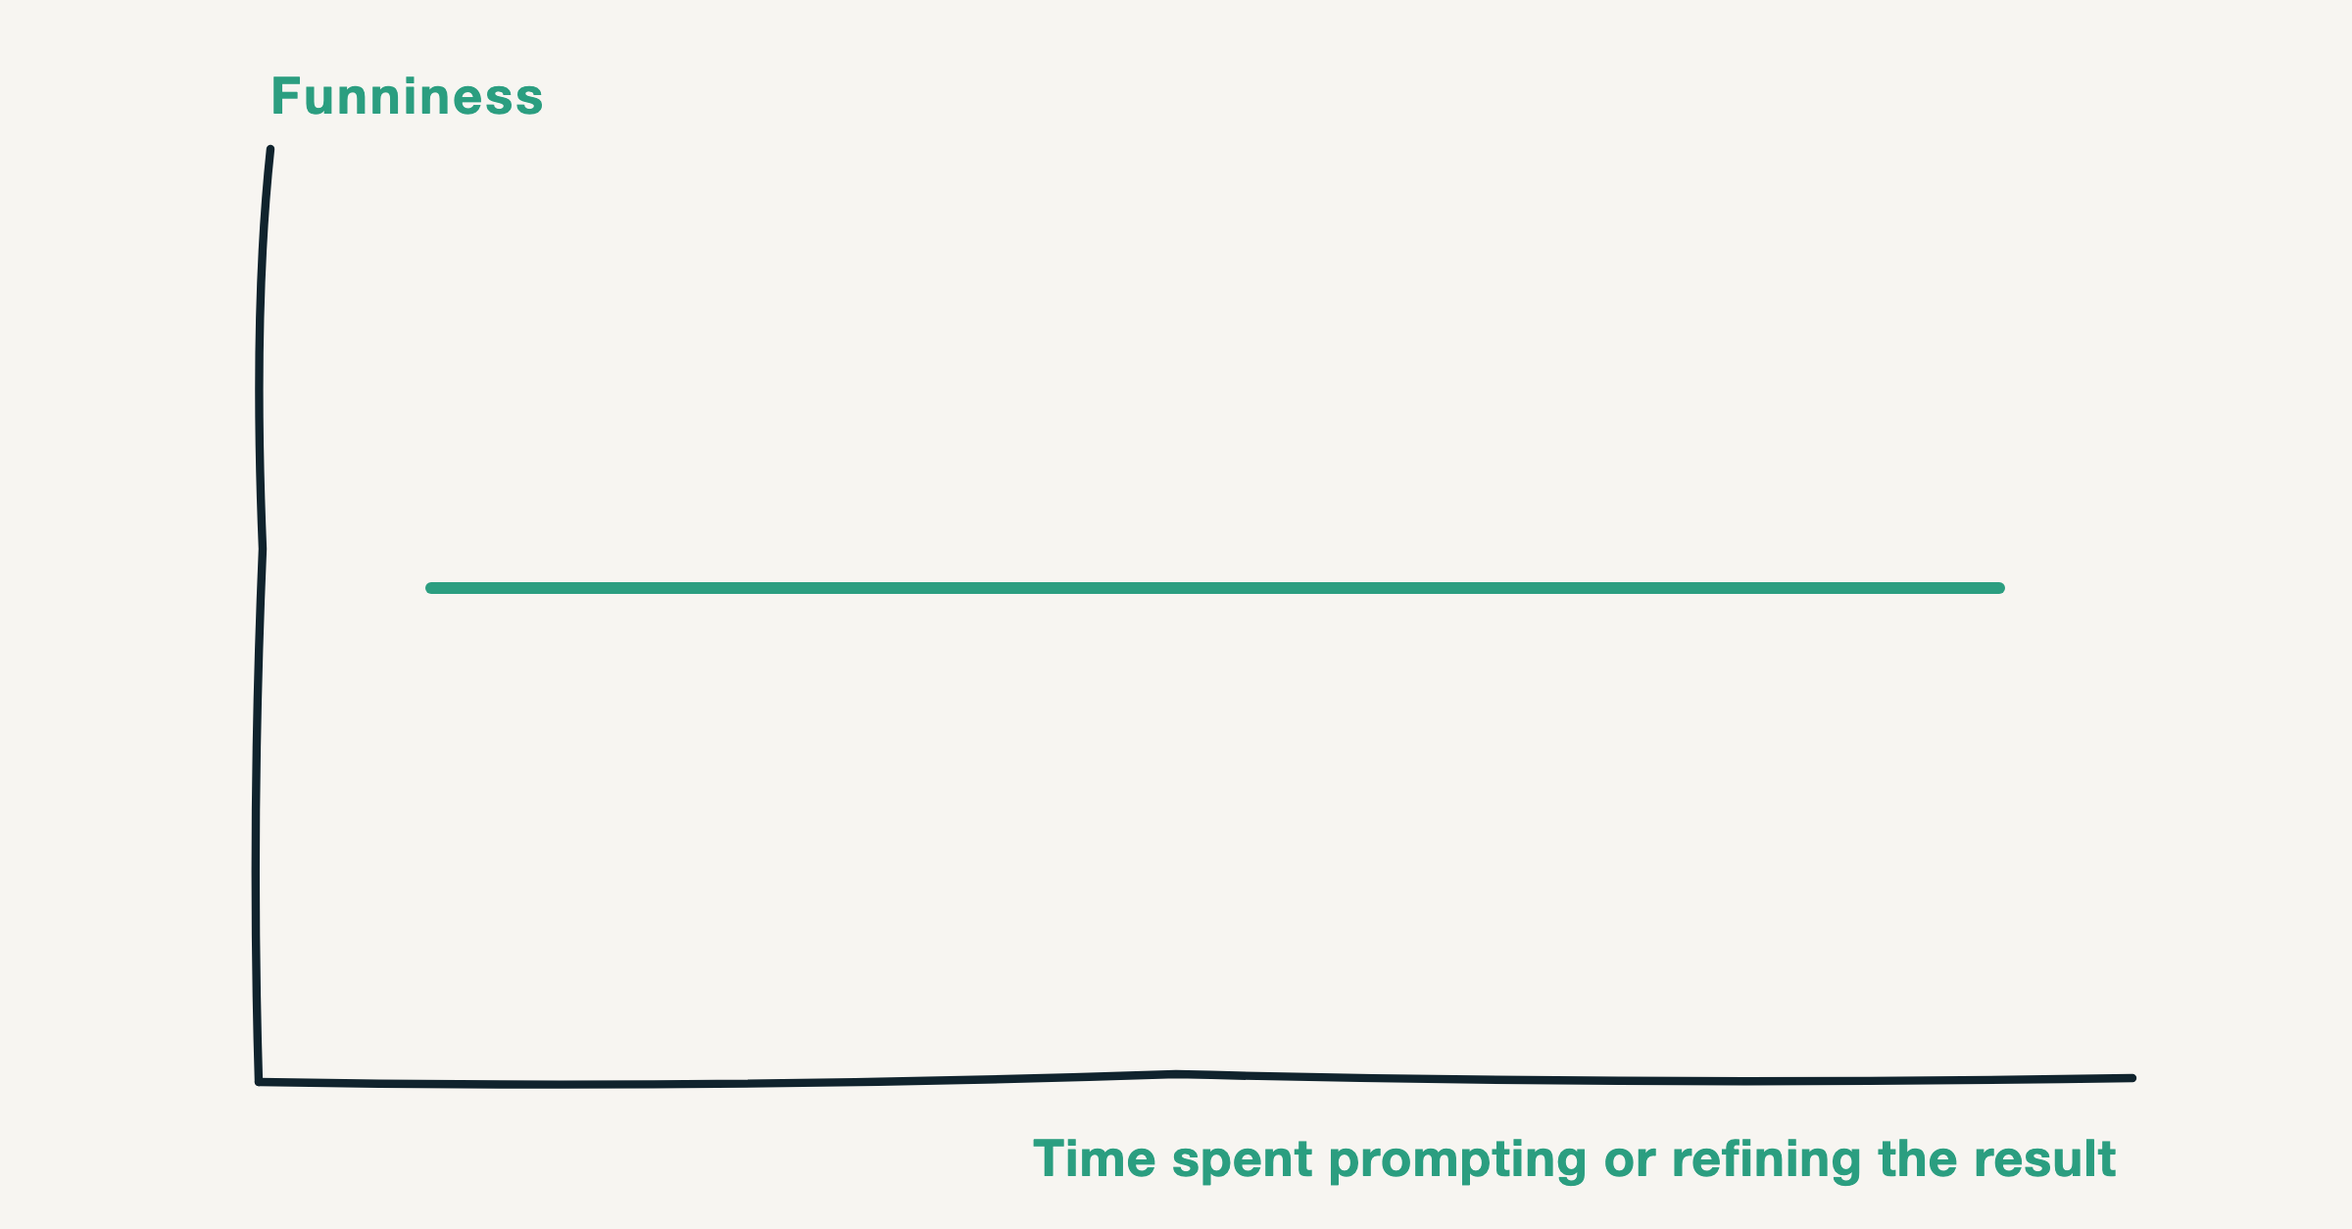
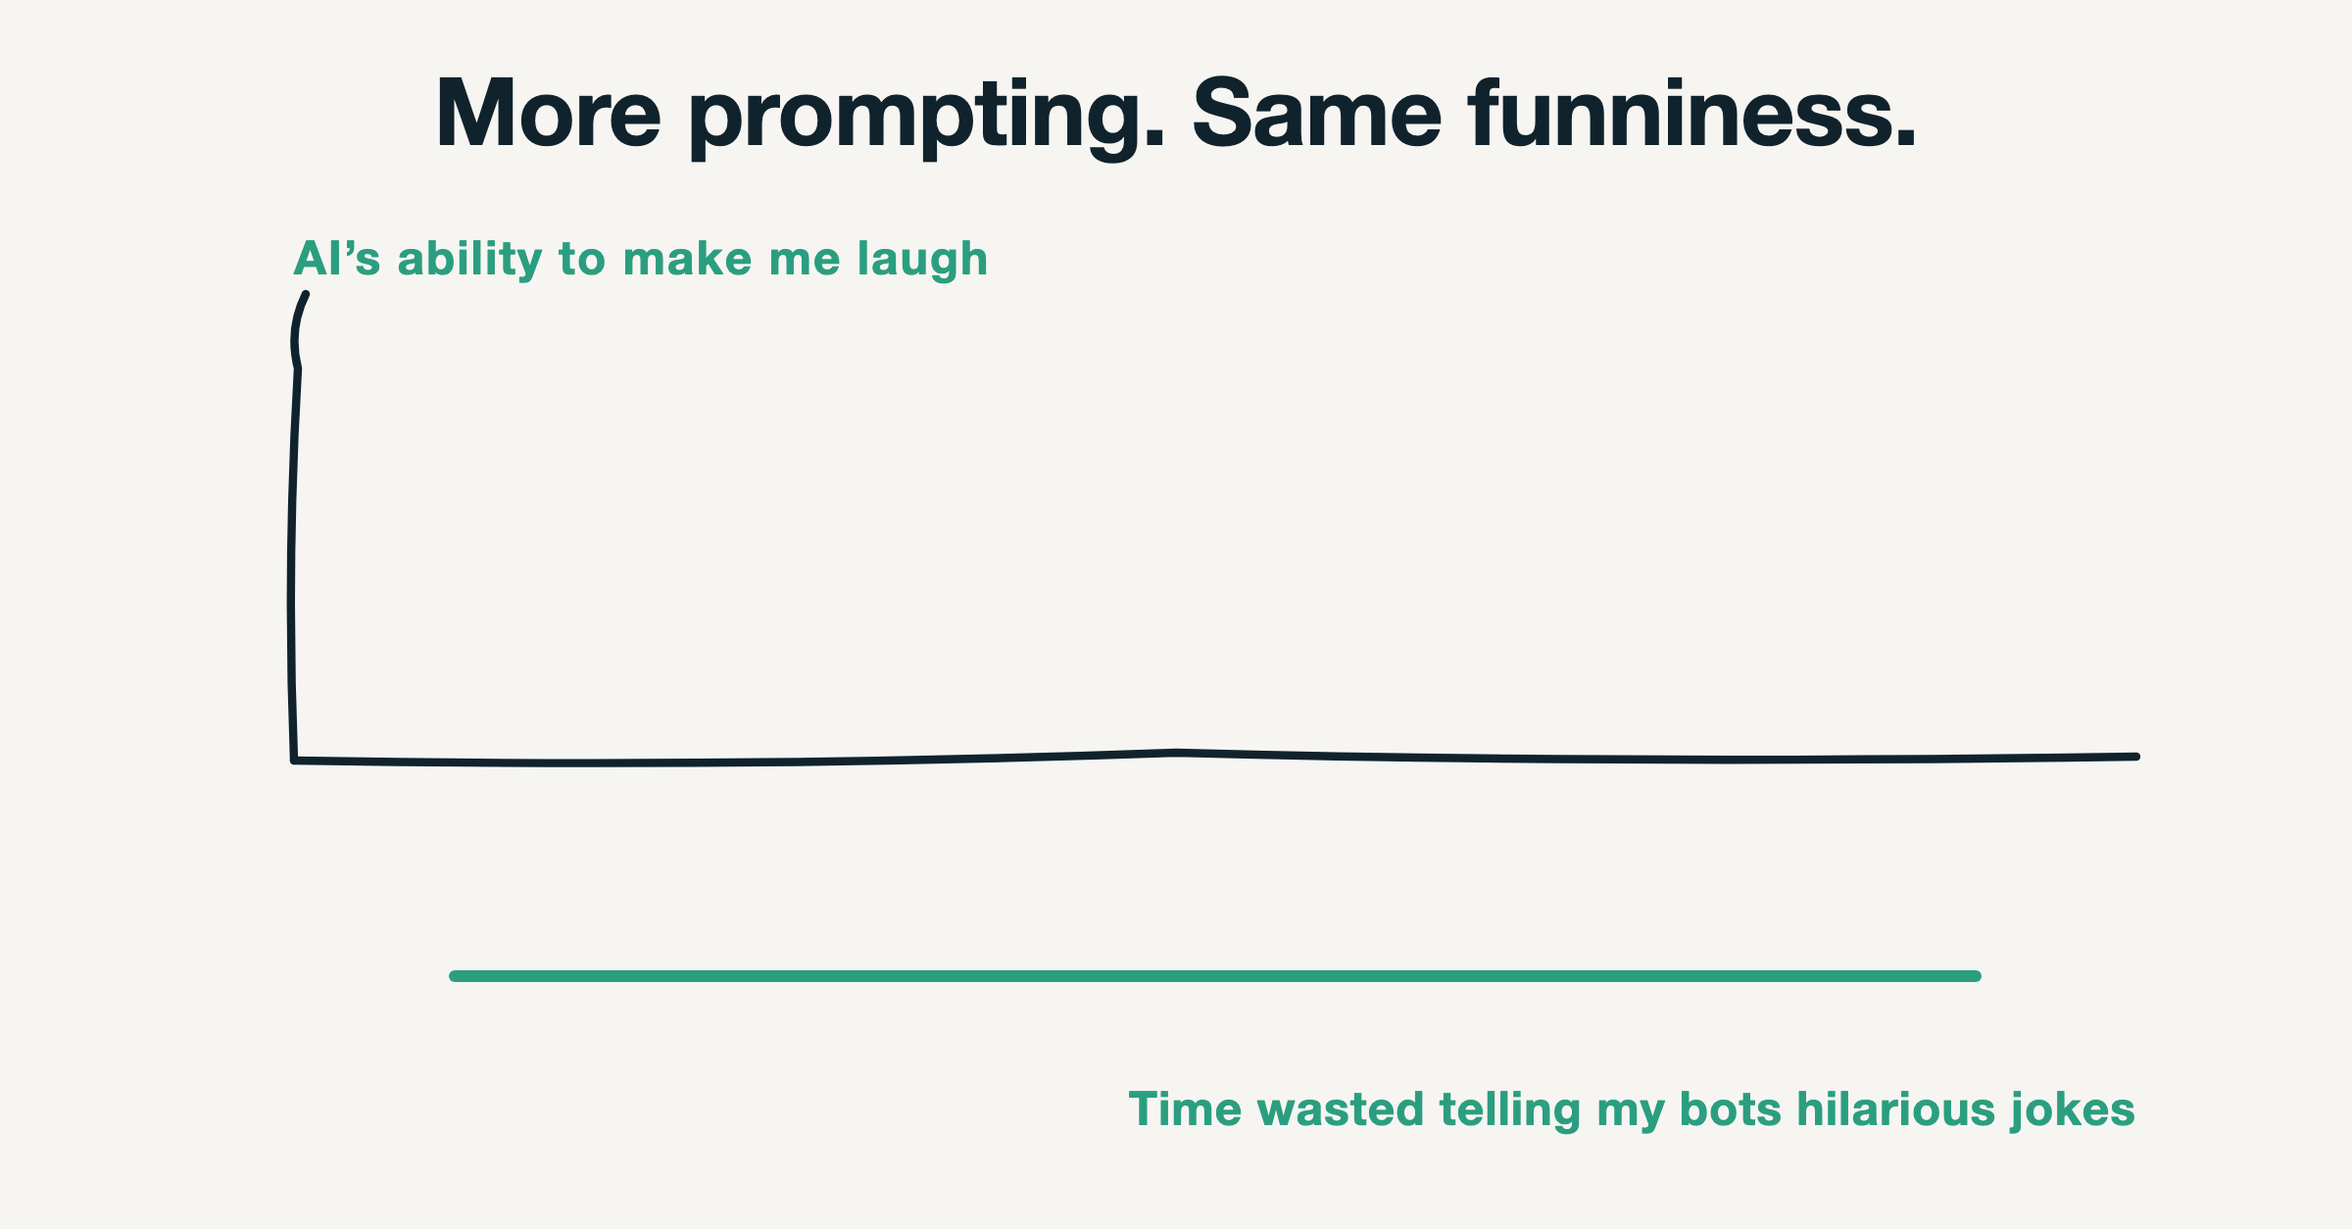
Social: revise AI-humor chart (header + flat line below axis), add post copy options, re-export PNG
- Chart: add header 'More prompting. Same funniness.' above the chart;
  y-axis 'AI's ability to make me laugh', x-axis 'Time wasted telling my
  bots hilarious jokes'; flat straight line now sits BELOW the x-axis in
  negative territory (was above). Marker-sketch axes kept; line is plain
  straight, no annotations or numbers.
- Re-export PNG at 2400x1254 (LinkedIn 1200x627 at 2x), overwriting
  jane-ai-humor-chart.png; copied to OneDrive Social Media master.
- Page: keep chart + Download PNG on top; add 'Post copy options'
  section with three options (verbatim post text preserving line breaks,
  styled one-line insight, amber 'Check with Jane' note on Option 1 only
  since it names Anthropic).
- Add collapsed 'Header and axis alternates' (3 headers + 2 y + 2 x
  variants, best pick marked) and 'What we cut' sections. Notes-for-Jane
  block and best-pick rationale omitted per brief.
- Update page title to 'Chart and post copy for Jane's LinkedIn post
  (draft, 26 Oct 2026)'; keep 'Personal profile - Draft, not posted' tag.
- OneDrive master IDEAS-2026-10-26-jane-ai-humor.html made byte-identical
  to the page.
- IMP card note updated; title stays 'Jane personal LinkedIn - AI humor
  chart'.
- Work board row social-ai-humor-post: stage 'Chart revised + copy,
  Jane to pick', model 'GLM (GPT rate-limited, Jane approved)', waiting
  on Jane: pick header/axes and a post option.

Wording is GLM-drafted (GPT rate-limited) and Jane-approved; used verbatim.

diff --git a/LUCI Systems Design System/ui_kits/review/content-marketing/jane-ai-humor-post-options-review.html b/LUCI Systems Design System/ui_kits/review/content-marketing/jane-ai-humor-post-options-review.html
@@ -3,7 +3,7 @@
 <head>
 <meta charset="utf-8">
 <meta name="viewport" content="width=device-width, initial-scale=1">
-<title>Chart for Jane's LinkedIn post (draft, 26 Oct 2026)</title>
+<title>Chart and post copy for Jane's LinkedIn post (draft, 26 Oct 2026)</title>
 <style>
   :root {
     --navy: #0A161C;
@@ -14,6 +14,9 @@
     --line: #cfcbc4;
     --mint: #68E3BE;
     --ink-soft: #5c5852;
+    --amber: #b8841a;
+    --amber-bg: #fbf3e0;
+    --amber-border: #e3c878;
   }
   * { box-sizing: border-box; }
   body {
@@ -44,6 +47,11 @@
     font: 700 1.7rem/1.2 "Helvetica Neue", Arial, sans-serif;
     color: var(--navy); margin: 0 0 .8rem;
     letter-spacing: -.01em;
+  }
+  h2 {
+    font: 700 1.25rem/1.3 "Helvetica Neue", Arial, sans-serif;
+    color: var(--navy); margin: 2.6rem 0 1rem;
+    letter-spacing: -.005em;
   }
   .draft-tag {
     display: inline-block;
@@ -90,6 +98,148 @@
     font-family: "Helvetica Neue", Arial, sans-serif;
     margin-top: 2rem;
   }
+
+  /* Post copy options */
+  .options { margin: 0 0 1rem; }
+  .option {
+    border: 1px solid var(--line);
+    border-radius: 10px;
+    background: var(--paper);
+    padding: 1.4rem 1.5rem 1.3rem;
+    margin: 0 0 1.2rem;
+  }
+  .option__head {
+    font: 700 12px/1 "Helvetica Neue", Arial, sans-serif;
+    letter-spacing: .1em; text-transform: uppercase;
+    color: var(--kicker);
+    margin: 0 0 .8rem;
+  }
+  .option__post {
+    font: 18px/1.6 "Georgia", "Times New Roman", serif;
+    color: var(--ink);
+    white-space: pre-wrap;
+    margin: 0 0 1rem;
+  }
+  .insight {
+    border-left: 4px solid var(--kicker);
+    background: #eef7f3;
+    padding: .7rem 1rem;
+    margin: 0 0 .8rem;
+    font: 600 14px/1.5 "Helvetica Neue", Arial, sans-serif;
+    color: var(--ink);
+  }
+  .insight strong {
+    font: 700 11px/1 "Helvetica Neue", Arial, sans-serif;
+    letter-spacing: .08em; text-transform: uppercase;
+    color: var(--kicker);
+    display: block;
+    margin-bottom: .3rem;
+  }
+  .check-jane {
+    border: 1px solid var(--amber-border);
+    background: var(--amber-bg);
+    color: var(--amber);
+    border-radius: 6px;
+    padding: .6rem .9rem;
+    font: 700 12px/1.5 "Helvetica Neue", Arial, sans-serif;
+    letter-spacing: .02em;
+  }
+  .check-jane strong {
+    font-weight: 700;
+    text-transform: uppercase;
+    letter-spacing: .08em;
+    margin-right: .4rem;
+  }
+
+  /* Collapsed sections */
+  details {
+    border: 1px solid var(--line);
+    border-radius: 10px;
+    background: var(--paper);
+    margin: 0 0 1.2rem;
+  }
+  summary {
+    cursor: pointer;
+    padding: .9rem 1.2rem;
+    font: 700 14px/1.3 "Helvetica Neue", Arial, sans-serif;
+    color: var(--navy);
+    list-style: none;
+  }
+  summary::-webkit-details-marker { display: none; }
+  summary::before {
+    content: "+";
+    display: inline-block;
+    width: 1.1rem;
+    color: var(--kicker);
+    font-weight: 700;
+    margin-right: .4rem;
+  }
+  details[open] summary::before { content: "\2212"; }
+  .details-body {
+    padding: 0 1.2rem 1.2rem;
+    border-top: 1px solid var(--line);
+    margin-top: -.1rem;
+    padding-top: 1rem;
+  }
+  .alt-group { margin: 0 0 1rem; }
+  .alt-group h3 {
+    font: 700 11px/1 "Helvetica Neue", Arial, sans-serif;
+    letter-spacing: .1em; text-transform: uppercase;
+    color: var(--kicker);
+    margin: 0 0 .5rem;
+  }
+  .alt-list {
+    list-style: none;
+    padding: 0;
+    margin: 0;
+    font: 17px/1.55 "Georgia", "Times New Roman", serif;
+    color: var(--ink);
+  }
+  .alt-list li {
+    padding: .35rem 0 .35rem 1.6rem;
+    position: relative;
+  }
+  .alt-list li::before {
+    content: "";
+    position: absolute;
+    left: 0;
+    top: .85em;
+    width: .7rem;
+    height: 2px;
+    background: var(--kicker);
+  }
+  .alt-list li.best {
+    font-weight: 700;
+    color: var(--navy);
+  }
+  .alt-list li.best::after {
+    content: " \2014 BEST PICK";
+    font: 700 10px/1 "Helvetica Neue", Arial, sans-serif;
+    letter-spacing: .1em;
+    color: var(--kicker);
+  }
+  .cut-list {
+    list-style: none;
+    padding: 0;
+    margin: 0;
+    font: 17px/1.6 "Georgia", "Times New Roman", serif;
+    color: var(--ink-soft);
+  }
+  .cut-list li {
+    padding: .4rem 0 .4rem 1.4rem;
+    position: relative;
+    border-bottom: 1px solid var(--line);
+  }
+  .cut-list li:last-child { border-bottom: none; }
+  .cut-list li::before {
+    content: "\2715";
+    position: absolute;
+    left: 0;
+    top: .4rem;
+    color: #b5503a;
+    font-size: 13px;
+    font-weight: 700;
+  }
 </style>
 </head>
 <body>
@@ -98,34 +248,113 @@
 </nav>
 <main>
   <p class="kicker">Draft for Jane &middot; 26 Oct 2026</p>
-  <h1>Chart for Jane&rsquo;s LinkedIn post (draft, 26 Oct 2026)</h1>
+  <h1>Chart and post copy for Jane&rsquo;s LinkedIn post (draft, 26 Oct 2026)</h1>
   <span class="draft-tag">Personal profile &middot; Draft, not posted</span>
 
-  <section class="chart" id="chart" aria-label="Hand-drawn sketch chart: funniness stays flat across time spent prompting or refining the result.">
+  <section class="chart" id="chart" aria-label="Hand-drawn sketch chart: more prompting, same funniness &mdash; a flat line stays below the x-axis across time wasted telling my bots hilarious jokes.">
     <div class="chart__body">
-      <svg class="chart__svg" viewBox="0 0 1200 627" role="img" aria-label="Hand-drawn sketch: a flat straight line for funniness across time spent prompting or refining the result, with axis labels Funniness and Time spent prompting or refining the result.">
+      <svg class="chart__svg" viewBox="0 0 1200 627" role="img" aria-label="Hand-drawn sketch chart with header 'More prompting. Same funniness.' A flat straight line sits below the x-axis in negative territory. Y-axis label: AI's ability to make me laugh. X-axis label: Time wasted telling my bots hilarious jokes.">
         <!-- Paper-feel background -->
         <rect x="0" y="0" width="1200" height="627" fill="#F7F5F1" />
+
+        <!-- Header / chart title -->
+        <text x="600" y="74" font-family="'Helvetica Neue', Arial, sans-serif" font-size="48" font-weight="700" fill="#10232D" letter-spacing="-0.01em" text-anchor="middle">More prompting. Same funniness.</text>
+
+        <!-- Y-axis label (top of axis) -->
+        <text x="150" y="140" font-family="'Helvetica Neue', Arial, sans-serif" font-size="24" font-weight="700" fill="#2b9e80" letter-spacing="0.04em">AI&rsquo;s ability to make me laugh</text>
 
         <!-- Hand-drawn marker-style axes (wobbly, round caps) -->
         <g fill="none" stroke="#10232D" stroke-width="4.2" stroke-linecap="round" stroke-linejoin="round">
           <!-- Y axis -->
-          <path d="M 132 552 Q 128 420 134 280 Q 129 160 138 76" />
+          <path d="M 150 388 Q 146 288 152 188 Q 147 168 156 150" />
           <!-- X axis -->
-          <path d="M 132 552 Q 360 556 600 548 Q 840 554 1088 550" />
+          <path d="M 150 388 Q 380 392 600 384 Q 820 390 1090 386" />
         </g>
 
-        <!-- Axis labels (marker-style lettering) -->
-        <text x="138" y="58" font-family="'Helvetica Neue', Arial, sans-serif" font-size="26" font-weight="700" fill="#2b9e80" letter-spacing="0.06em">Funniness</text>
-        <text x="1080" y="600" font-family="'Helvetica Neue', Arial, sans-serif" font-size="26" font-weight="700" fill="#2b9e80" letter-spacing="0.02em" text-anchor="end">Time spent prompting or refining the result</text>
+        <!-- ONE straight, flat line BELOW the x-axis in negative territory -->
+        <path d="M 232 498 L 1008 498" fill="none" stroke="#2b9e80" stroke-width="6" stroke-linecap="round" />
 
-        <!-- ONE straight, flat line (no wobble; stays flat) -->
-        <path d="M 220 300 L 1020 300" fill="none" stroke="#2b9e80" stroke-width="6" stroke-linecap="round" />
+        <!-- X-axis label (below the flat line) -->
+        <text x="1090" y="574" font-family="'Helvetica Neue', Arial, sans-serif" font-size="24" font-weight="700" fill="#2b9e80" letter-spacing="0.02em" text-anchor="end">Time wasted telling my bots hilarious jokes</text>
       </svg>
     </div>
   </section>
 
   <a class="download" href="assets/jane-ai-humor-chart.png" download="jane-ai-humor-chart.png">Download PNG</a>
+
+  <h2>Post copy options</h2>
+  <div class="options">
+
+    <div class="option" id="option-1">
+      <p class="option__head">Option 1</p>
+      <div class="option__post">More prompting. Same funniness.
+
+I know they&rsquo;re bots. But are we not training them to have a sense of humor over at Anthropic? Do the gods of AI not need a little levity every now and then?
+
+I don&rsquo;t need much. A chicken-crossing-the-road joke. A &ldquo;bruh.&rdquo; The line stayed flat anyway.</div>
+      <div class="insight"><strong>The insight</strong>More prompting and refining time did not raise funniness; the line stayed flat, and her bar was already a chicken joke or a &ldquo;bruh.&rdquo;</div>
+      <div class="check-jane"><strong>Check with Jane</strong>Yes &mdash; keeps her exact &ldquo;over at Anthropic&rdquo; wording, names a specific AI company.</div>
+    </div>
+
+    <div class="option" id="option-2">
+      <p class="option__head">Option 2</p>
+      <div class="option__post">This graph is flat.
+
+Today the effort grew &mdash; options, then banter, then rankings, then a finished page, with several agents per round. The funniness stayed where it started.
+
+I don&rsquo;t need much. A chicken-crossing-the-road joke. A &ldquo;bruh.&rdquo; They explained their jokes after each miss and tried harder. Explaining proves comprehension, not funniness.</div>
+      <div class="insight"><strong>The insight</strong>Effort grew across rounds while funniness stayed flat; the agents explained and retried but could not tell the jokes were not funny.</div>
+    </div>
+
+    <div class="option" id="option-3">
+      <p class="option__head">Option 3</p>
+      <div class="option__post">I know they&rsquo;re bots. But do the gods of AI not need a little levity every now and then? Are the people training these models not teaching them a single chicken-crossing-the-road joke?
+
+This graph is the answer. The line is flat. It is below the axis. I asked for a &ldquo;bruh.&rdquo;</div>
+      <div class="insight"><strong>The insight</strong>Her bar is a chicken joke or a &ldquo;bruh,&rdquo; and the flat line below the axis shows even that went unmet.</div>
+    </div>
+
+  </div>
+
+  <details>
+    <summary>Header and axis alternates</summary>
+    <div class="details-body">
+      <div class="alt-group">
+        <h3>Headers (3)</h3>
+        <ul class="alt-list">
+          <li class="best">More prompting. Same funniness.</li>
+          <li>I kept trying. The line stayed flat.</li>
+          <li>Effort up. Funniness unchanged.</li>
+        </ul>
+      </div>
+      <div class="alt-group">
+        <h3>Y-axis</h3>
+        <ul class="alt-list">
+          <li class="best">AI&rsquo;s ability to make me laugh</li>
+          <li>Laughability</li>
+        </ul>
+      </div>
+      <div class="alt-group">
+        <h3>X-axis</h3>
+        <ul class="alt-list">
+          <li class="best">Time wasted telling my bots hilarious jokes</li>
+          <li>Time spent prompting and refining the result</li>
+        </ul>
+      </div>
+    </div>
+  </details>
+
+  <details>
+    <summary>What we cut</summary>
+    <div class="details-body">
+      <ul class="cut-list">
+        <li>A post that opened with &ldquo;AI humor is hard&rdquo; &mdash; generic AI-at-work trope, no joke in the first line.</li>
+        <li>A post ending on &ldquo;Maybe tomorrow.&rdquo; &mdash; a sigh, not a punchline; reads as a lesson.</li>
+        <li>A post with a closing question &ldquo;Who&rsquo;s training them?&rdquo; &mdash; setup, not a joke; cut.</li>
+        <li>A post that named a bot (Cornelius, Weatherby) by name &mdash; invents a quote-attributable detail not in the brief.</li>
+      </ul>
+    </div>
+  </details>
 
   <p class="footer">Personal profile draft &mdash; nothing posted &middot; 26 Oct 2026.</p>
 </main>

diff --git a/LUCI Systems Design System/ui_kits/review/internal-portal/index.html b/LUCI Systems Design System/ui_kits/review/internal-portal/index.html
@@ -4114,7 +4114,7 @@
         },
         {
           title: 'Jane personal LinkedIn · AI humor chart',
-          note: 'Draft for Jane, Oct 26, 2026. One chart for her personal-profile post, with a PNG to attach. Nothing posted.',
+          note: 'Draft for Jane, Oct 26, 2026. One chart with PNG and three post copy options for her personal-profile post. Nothing posted.',
           href: 'http://10.10.1.17:8081/content-marketing/jane-ai-humor-post-options-review.html',
           external: true,
           pill: 'Social'

diff --git a/LUCI Systems Design System/agent-handbook/shared/CURRENT-WORK-BOARD.md b/LUCI Systems Design System/agent-handbook/shared/CURRENT-WORK-BOARD.md
@@ -18,7 +18,7 @@ Workstream bots update this table when Jane assigns them work. Cornelius does no
 
 | ID | Jane asked | Owner | Stage | Model | Artifact | Waiting on Jane | Next |
 |---|---|---|---|---|---|---|---|
-| social-ai-humor-post | Jane asked: build the AI-humor post from the chart | Svetlana | Chart built, Jane to review | GPT x2 (insight check, then posts) -> GLM page | http://10.10.1.17:8081/content-marketing/jane-ai-humor-post-options-review.html · PNG `ui_kits/review/content-marketing/assets/jane-ai-humor-chart.png` (live `http://10.10.1.17:8081/content-marketing/assets/jane-ai-humor-chart.png`) · OneDrive master `Marketing - Documents/Social Media/IDEAS-2026-10-26-jane-ai-humor.html` + `jane-ai-humor-chart.png` | review chart and PNG | Svetlana adjusts the chart if she asks |
+| social-ai-humor-post | Jane asked: build the AI-humor post from the chart | Svetlana | Chart revised + copy, Jane to pick | GLM (GPT rate-limited, Jane approved) | http://10.10.1.17:8081/content-marketing/jane-ai-humor-post-options-review.html · PNG `ui_kits/review/content-marketing/assets/jane-ai-humor-chart.png` (live `http://10.10.1.17:8081/content-marketing/assets/jane-ai-humor-chart.png`) · OneDrive master `Marketing - Documents/Social Media/IDEAS-2026-10-26-jane-ai-humor.html` + `jane-ai-humor-chart.png` | pick header/axes and a post option | new commit |
 | osage-swigs-web-cs | Rebuild web CS around Ponca City’s nine-year LUCI relationship (original install → ballroom → Swallows + Swigs); keep Tulsa origin and six-property Osage footprint as supporting context. | Consuelo | In Mike’s Review Queue (second after Signal 05) | GPT | http://10.10.1.37/resources/case-studies/osage-ponca-swigs/ · listing cover is Swigs after photo | none | Mike review; Jane supplies map/copy notes only if he flags them |
 | upgrade-guide-livemap-flexibility | Jane: add Live map benefits — move endpoint labels + lock viewpoint on login (bartender); tighten Scale/pan line | Weatherby | LIVE on .37 (`e8bc2bf`) | executor | http://10.10.1.37/luci-upgrade-guide/#ug-feature-live-map-flexibility — Cmd+Shift+R | Jane review | Jane notes |
 | wave-1-spotlight-lighting | Publish Wave 1 lighting spotlight on luci-website (.37), same pattern as morning-reset; Jane locked cover via CoS | Weatherby | LIVE pending Jane review | executor | `38f16c7` · http://10.10.1.37/blog/lighting-lives-with-the-rest-of-the-av/ · hero `lighting-hero.jpg` (not map); map in body | Jane hard-refresh review | Weatherby tells CoS the URL |
